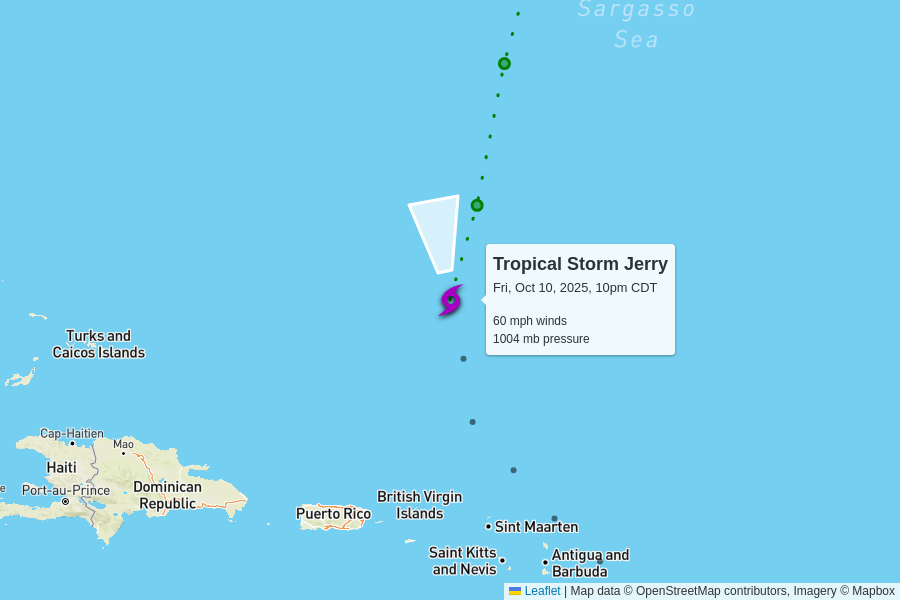
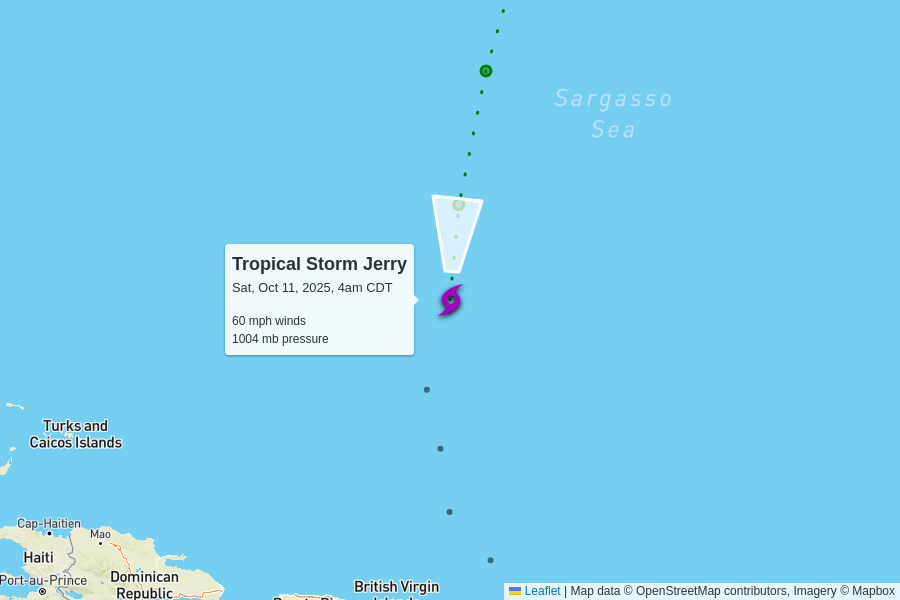
automatic update

diff --git a/docs/index.html b/docs/index.html
@@ -102,7 +102,7 @@
         <td colspan="6" class="storm category-0" >
           <h2>
             Tropical Storm Jerry
-            <p class="updated">last updated <span data-time>2025-10-11T03:00:00.000Z</span></p>
+            <p class="updated">last updated <span data-time>2025-10-11T09:00:00.000Z</span></p>
           </h2>
         </td>
       </tr>
@@ -117,12 +117,12 @@
       </tr>
       <tr>
         <td class="spacer"></td>
-        <td>60 mph<br>+10 mph since last update</td>
-        <td>1004 mb<br>-2 mb since last update</td>
+        <td>60 mph<br>0 mph since last update</td>
+        <td>1004 mb<br>0 mb since last update</td>
         <td>
-          15 mph to the north
+          16 mph to the north
           <br/>
-          <span style="display: inline-block; font-size: 1.5em; transform: rotate(350deg);">↑</span>
+          <span style="display: inline-block; font-size: 1.5em; transform: rotate(5deg);">↑</span>
         </td>
         <td><a href="https://raw.githubusercontent.com/mgwalker/atlantic-hurricanes/main/data/csv/AL102025.csv">AL102025.csv</a></td>
         <td><a href="https://www.nhc.noaa.gov/archive/2025/JERRY.shtml?">NHC advisories</a></td>
